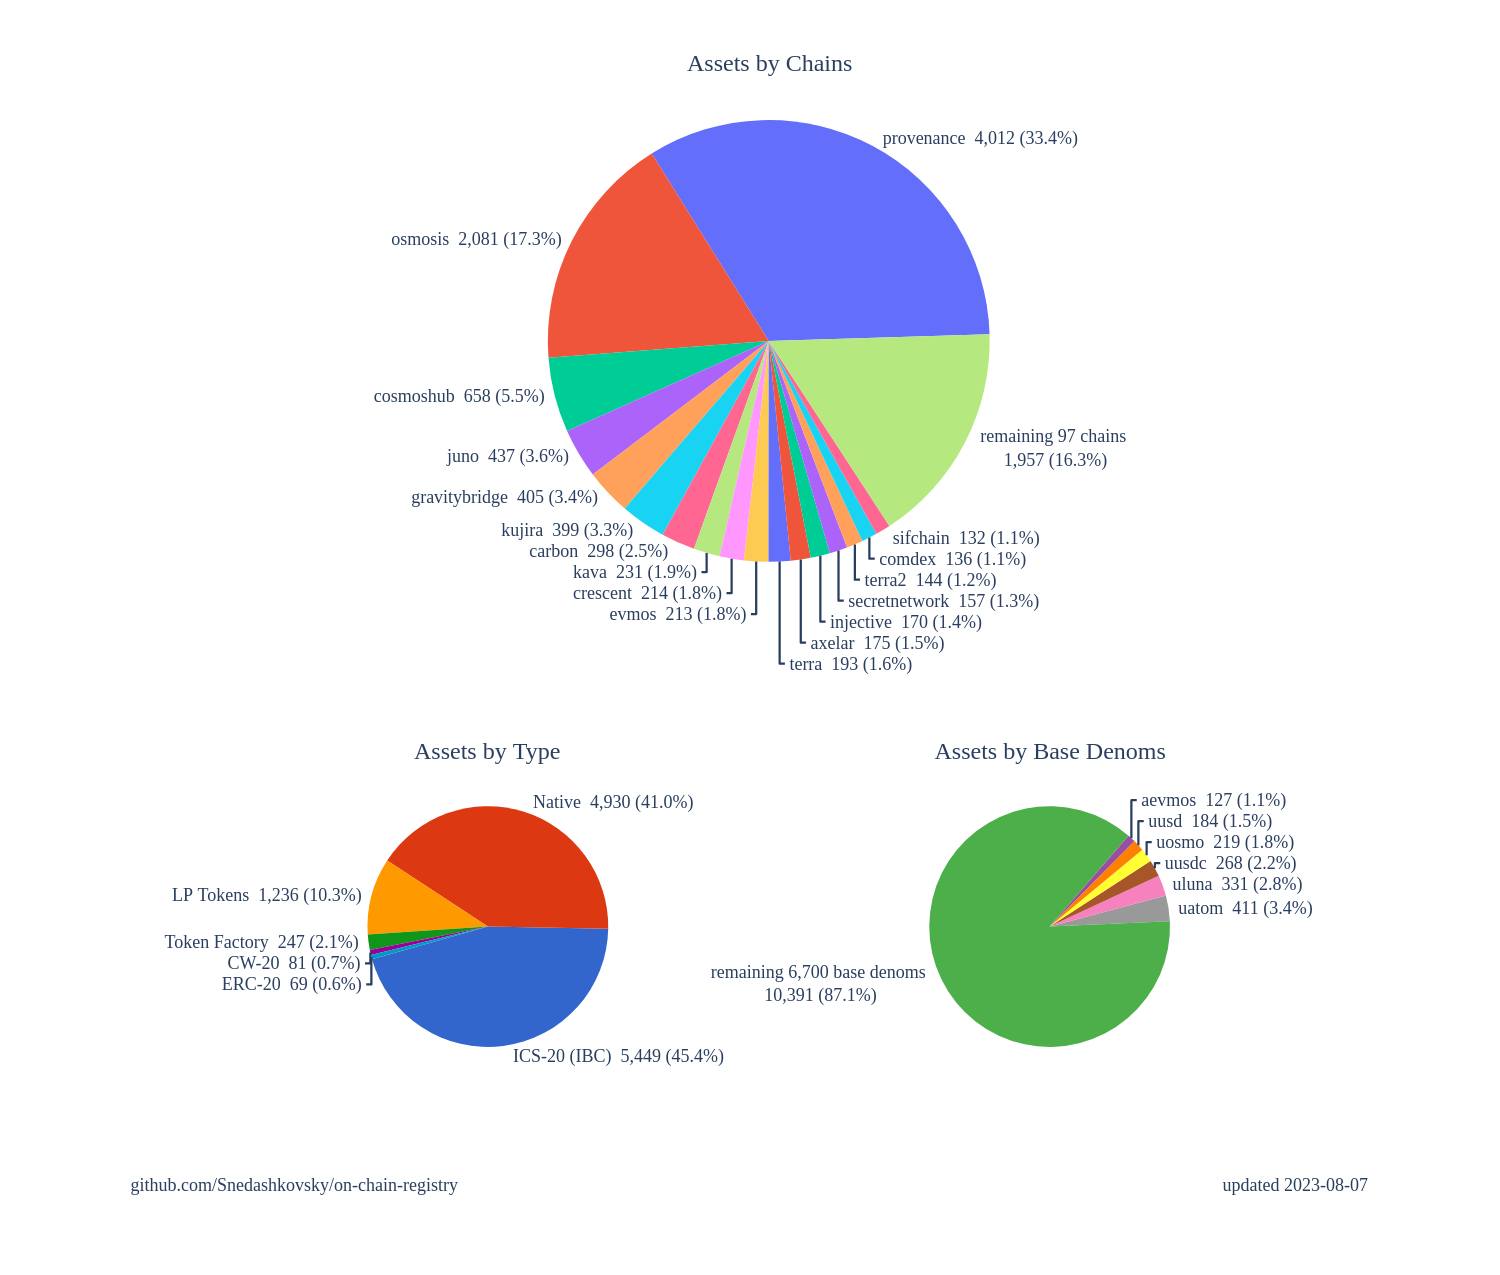
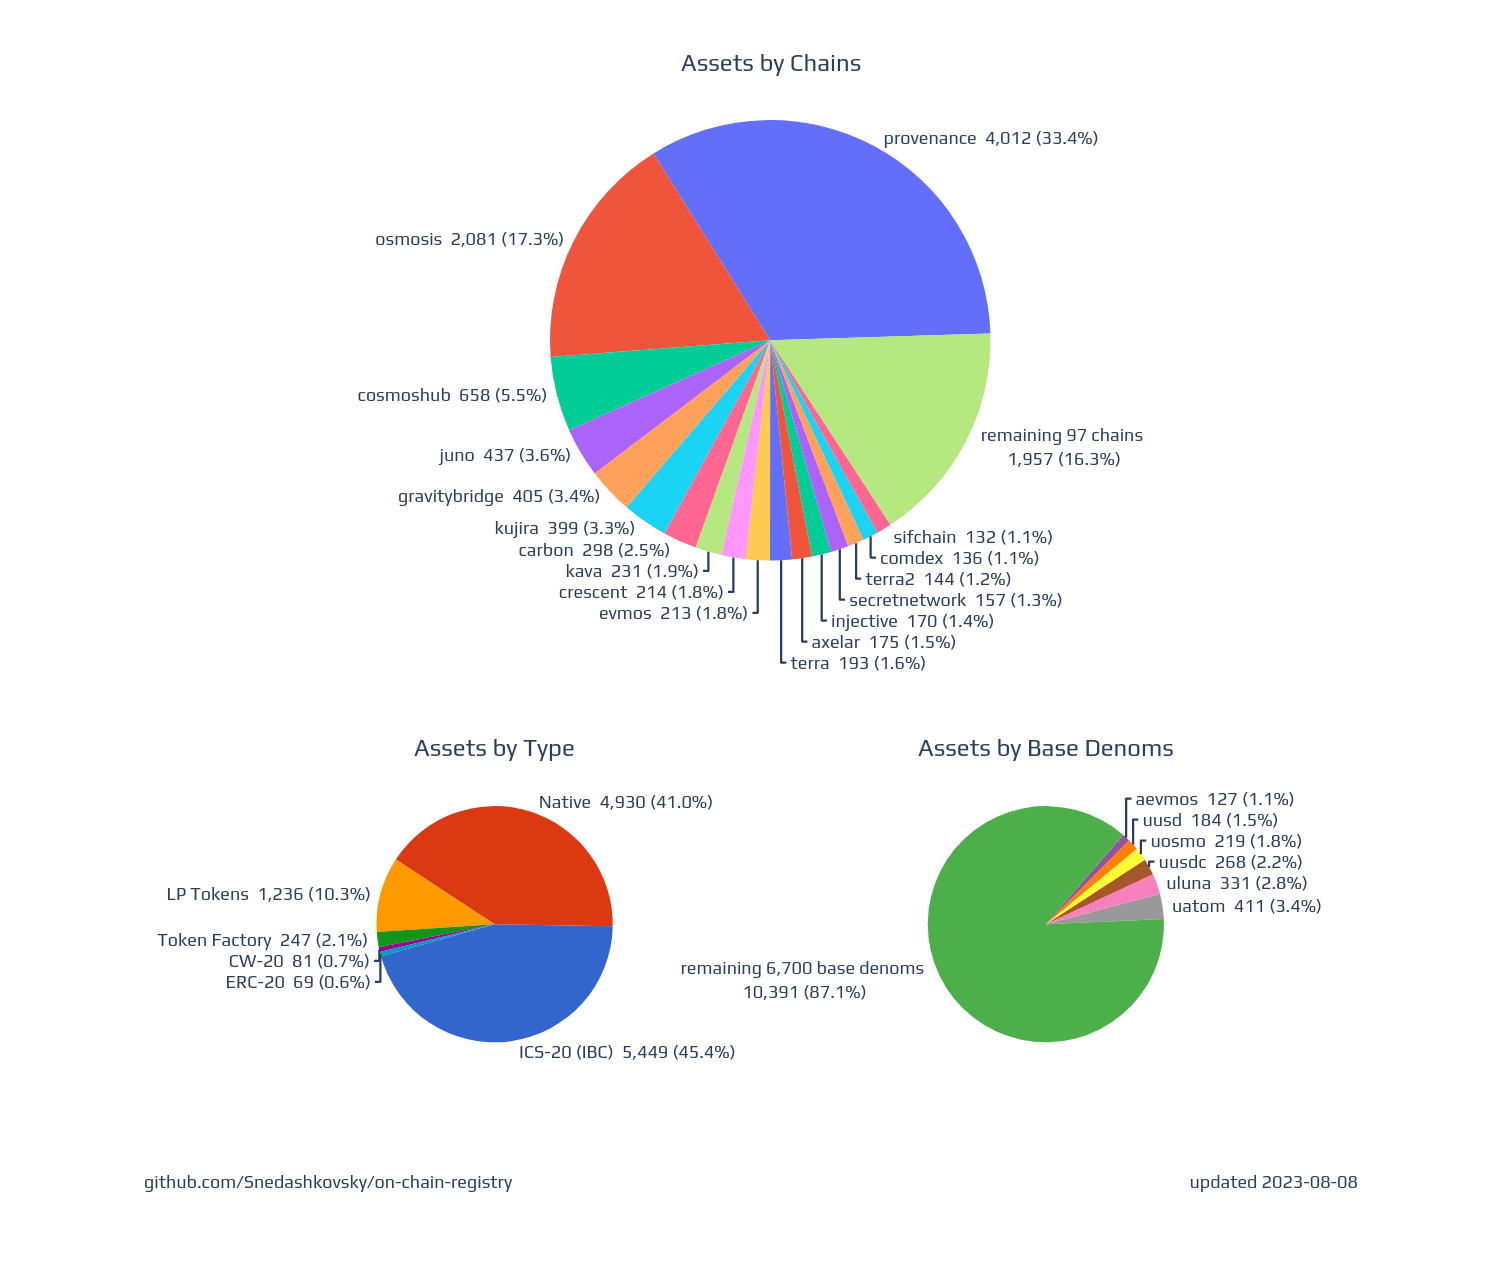
- update asset list

diff --git a/charts/index.html b/charts/index.html
@@ -1,0 +1,7 @@
+<html>
+<head><meta charset="utf-8" /></head>
+<body>
+    <div>                        <script type="text/javascript">window.PlotlyConfig = {MathJaxConfig: 'local'};</script>
+        <script charset="utf-8" src="https://cdn.plot.ly/plotly-2.24.1.min.js"></script>                <div id="06bafabd-e591-4732-a090-659733ec4720" class="plotly-graph-div" style="height:850px; width:1000px;"></div>            <script type="text/javascript">                                    window.PLOTLYENV=window.PLOTLYENV || {};                                    if (document.getElementById("06bafabd-e591-4732-a090-659733ec4720")) {                    Plotly.newPlot(                        "06bafabd-e591-4732-a090-659733ec4720",                        [{"labels":["provenance","osmosis","cosmoshub","juno","gravitybridge","kujira","carbon","kava","crescent","evmos","terra","axelar","injective","secretnetwork","terra2","comdex","sifchain","remaining 97 chains\n\u003cbr\u003e"],"marker":{"colors":["#636EFA","#EF553B","#00CC96","#AB63FA","#FFA15A","#19D3F3","#FF6692","#B6E880","#FF97FF","#FECB52"]},"name":"assets by chains","rotation":-32,"sort":false,"text":["4,012","2,081","658","437","405","399","298","231","214","213","193","175","170","157","144","136","132","1,957"],"values":[4012,2081,658,437,405,399,298,231,214,213,193,175,170,157,144,136,132,1957],"type":"pie","domain":{"x":[0.0,1.0],"y":[0.5700000000000001,1.0]},"hoverinfo":"label+value+percent","hovertemplate":"%{label}\u003cbr\u003e%{value:\u003e,} (%{percent:.1%})","textinfo":"label+value+percent","textposition":"outside","texttemplate":" %{label}  %{value:\u003e,} (%{percent:.1%}) "},{"labels":["ICS-20 (IBC)","Native","LP Tokens","Token Factory","CW-20","ERC-20"],"marker":{"colors":["#3366CC","#DC3912","#FF9900","#109618","#990099","#0099C6","#DD4477","#66AA00","#B82E2E","#316395"]},"name":"assets by type","rotation":91,"sort":false,"text":["5,449","4,930","1,236","247","81","69"],"values":[5449,4930,1236,247,81,69],"type":"pie","domain":{"x":[0.0,0.3],"y":[0.0,0.43]},"hoverinfo":"label+value+percent","hovertemplate":"%{label}\u003cbr\u003e%{value:\u003e,} (%{percent:.1%})","textinfo":"label+value+percent","textposition":"outside","texttemplate":" %{label}  %{value:\u003e,} (%{percent:.1%}) "},{"labels":["uatom","uluna","uusdc","uosmo","uusd","aevmos","remaining 6,700 base denoms\n\u003cbr\u003e"],"marker":{"colors":["rgb(153,153,153)","rgb(247,129,191)","rgb(166,86,40)","rgb(255,255,51)","rgb(255,127,0)","rgb(152,78,163)","rgb(77,175,74)","rgb(55,126,184)","rgb(228,26,28)"]},"name":"assets by base denoms","rotation":75,"sort":false,"text":["411","331","268","219","184","127","10,391"],"values":[411,331,268,219,184,127,10391],"type":"pie","domain":{"x":[0.7,1.0],"y":[0.0,0.43]},"hoverinfo":"label+value+percent","hovertemplate":"%{label}\u003cbr\u003e%{value:\u003e,} (%{percent:.1%})","textinfo":"label+value+percent","textposition":"outside","texttemplate":" %{label}  %{value:\u003e,} (%{percent:.1%}) "}],                        {"template":{"data":{"barpolar":[{"marker":{"line":{"color":"white","width":0.5},"pattern":{"fillmode":"overlay","size":10,"solidity":0.2}},"type":"barpolar"}],"bar":[{"error_x":{"color":"#2a3f5f"},"error_y":{"color":"#2a3f5f"},"marker":{"line":{"color":"white","width":0.5},"pattern":{"fillmode":"overlay","size":10,"solidity":0.2}},"type":"bar"}],"carpet":[{"aaxis":{"endlinecolor":"#2a3f5f","gridcolor":"#C8D4E3","linecolor":"#C8D4E3","minorgridcolor":"#C8D4E3","startlinecolor":"#2a3f5f"},"baxis":{"endlinecolor":"#2a3f5f","gridcolor":"#C8D4E3","linecolor":"#C8D4E3","minorgridcolor":"#C8D4E3","startlinecolor":"#2a3f5f"},"type":"carpet"}],"choropleth":[{"colorbar":{"outlinewidth":0,"ticks":""},"type":"choropleth"}],"contourcarpet":[{"colorbar":{"outlinewidth":0,"ticks":""},"type":"contourcarpet"}],"contour":[{"colorbar":{"outlinewidth":0,"ticks":""},"colorscale":[[0.0,"#0d0887"],[0.1111111111111111,"#46039f"],[0.2222222222222222,"#7201a8"],[0.3333333333333333,"#9c179e"],[0.4444444444444444,"#bd3786"],[0.5555555555555556,"#d8576b"],[0.6666666666666666,"#ed7953"],[0.7777777777777778,"#fb9f3a"],[0.8888888888888888,"#fdca26"],[1.0,"#f0f921"]],"type":"contour"}],"heatmapgl":[{"colorbar":{"outlinewidth":0,"ticks":""},"colorscale":[[0.0,"#0d0887"],[0.1111111111111111,"#46039f"],[0.2222222222222222,"#7201a8"],[0.3333333333333333,"#9c179e"],[0.4444444444444444,"#bd3786"],[0.5555555555555556,"#d8576b"],[0.6666666666666666,"#ed7953"],[0.7777777777777778,"#fb9f3a"],[0.8888888888888888,"#fdca26"],[1.0,"#f0f921"]],"type":"heatmapgl"}],"heatmap":[{"colorbar":{"outlinewidth":0,"ticks":""},"colorscale":[[0.0,"#0d0887"],[0.1111111111111111,"#46039f"],[0.2222222222222222,"#7201a8"],[0.3333333333333333,"#9c179e"],[0.4444444444444444,"#bd3786"],[0.5555555555555556,"#d8576b"],[0.6666666666666666,"#ed7953"],[0.7777777777777778,"#fb9f3a"],[0.8888888888888888,"#fdca26"],[1.0,"#f0f921"]],"type":"heatmap"}],"histogram2dcontour":[{"colorbar":{"outlinewidth":0,"ticks":""},"colorscale":[[0.0,"#0d0887"],[0.1111111111111111,"#46039f"],[0.2222222222222222,"#7201a8"],[0.3333333333333333,"#9c179e"],[0.4444444444444444,"#bd3786"],[0.5555555555555556,"#d8576b"],[0.6666666666666666,"#ed7953"],[0.7777777777777778,"#fb9f3a"],[0.8888888888888888,"#fdca26"],[1.0,"#f0f921"]],"type":"histogram2dcontour"}],"histogram2d":[{"colorbar":{"outlinewidth":0,"ticks":""},"colorscale":[[0.0,"#0d0887"],[0.1111111111111111,"#46039f"],[0.2222222222222222,"#7201a8"],[0.3333333333333333,"#9c179e"],[0.4444444444444444,"#bd3786"],[0.5555555555555556,"#d8576b"],[0.6666666666666666,"#ed7953"],[0.7777777777777778,"#fb9f3a"],[0.8888888888888888,"#fdca26"],[1.0,"#f0f921"]],"type":"histogram2d"}],"histogram":[{"marker":{"pattern":{"fillmode":"overlay","size":10,"solidity":0.2}},"type":"histogram"}],"mesh3d":[{"colorbar":{"outlinewidth":0,"ticks":""},"type":"mesh3d"}],"parcoords":[{"line":{"colorbar":{"outlinewidth":0,"ticks":""}},"type":"parcoords"}],"pie":[{"automargin":true,"type":"pie"}],"scatter3d":[{"line":{"colorbar":{"outlinewidth":0,"ticks":""}},"marker":{"colorbar":{"outlinewidth":0,"ticks":""}},"type":"scatter3d"}],"scattercarpet":[{"marker":{"colorbar":{"outlinewidth":0,"ticks":""}},"type":"scattercarpet"}],"scattergeo":[{"marker":{"colorbar":{"outlinewidth":0,"ticks":""}},"type":"scattergeo"}],"scattergl":[{"marker":{"colorbar":{"outlinewidth":0,"ticks":""}},"type":"scattergl"}],"scattermapbox":[{"marker":{"colorbar":{"outlinewidth":0,"ticks":""}},"type":"scattermapbox"}],"scatterpolargl":[{"marker":{"colorbar":{"outlinewidth":0,"ticks":""}},"type":"scatterpolargl"}],"scatterpolar":[{"marker":{"colorbar":{"outlinewidth":0,"ticks":""}},"type":"scatterpolar"}],"scatter":[{"fillpattern":{"fillmode":"overlay","size":10,"solidity":0.2},"type":"scatter"}],"scatterternary":[{"marker":{"colorbar":{"outlinewidth":0,"ticks":""}},"type":"scatterternary"}],"surface":[{"colorbar":{"outlinewidth":0,"ticks":""},"colorscale":[[0.0,"#0d0887"],[0.1111111111111111,"#46039f"],[0.2222222222222222,"#7201a8"],[0.3333333333333333,"#9c179e"],[0.4444444444444444,"#bd3786"],[0.5555555555555556,"#d8576b"],[0.6666666666666666,"#ed7953"],[0.7777777777777778,"#fb9f3a"],[0.8888888888888888,"#fdca26"],[1.0,"#f0f921"]],"type":"surface"}],"table":[{"cells":{"fill":{"color":"#EBF0F8"},"line":{"color":"white"}},"header":{"fill":{"color":"#C8D4E3"},"line":{"color":"white"}},"type":"table"}]},"layout":{"annotationdefaults":{"arrowcolor":"#2a3f5f","arrowhead":0,"arrowwidth":1},"autotypenumbers":"strict","coloraxis":{"colorbar":{"outlinewidth":0,"ticks":""}},"colorscale":{"diverging":[[0,"#8e0152"],[0.1,"#c51b7d"],[0.2,"#de77ae"],[0.3,"#f1b6da"],[0.4,"#fde0ef"],[0.5,"#f7f7f7"],[0.6,"#e6f5d0"],[0.7,"#b8e186"],[0.8,"#7fbc41"],[0.9,"#4d9221"],[1,"#276419"]],"sequential":[[0.0,"#0d0887"],[0.1111111111111111,"#46039f"],[0.2222222222222222,"#7201a8"],[0.3333333333333333,"#9c179e"],[0.4444444444444444,"#bd3786"],[0.5555555555555556,"#d8576b"],[0.6666666666666666,"#ed7953"],[0.7777777777777778,"#fb9f3a"],[0.8888888888888888,"#fdca26"],[1.0,"#f0f921"]],"sequentialminus":[[0.0,"#0d0887"],[0.1111111111111111,"#46039f"],[0.2222222222222222,"#7201a8"],[0.3333333333333333,"#9c179e"],[0.4444444444444444,"#bd3786"],[0.5555555555555556,"#d8576b"],[0.6666666666666666,"#ed7953"],[0.7777777777777778,"#fb9f3a"],[0.8888888888888888,"#fdca26"],[1.0,"#f0f921"]]},"colorway":["#636efa","#EF553B","#00cc96","#ab63fa","#FFA15A","#19d3f3","#FF6692","#B6E880","#FF97FF","#FECB52"],"font":{"color":"#2a3f5f"},"geo":{"bgcolor":"white","lakecolor":"white","landcolor":"white","showlakes":true,"showland":true,"subunitcolor":"#C8D4E3"},"hoverlabel":{"align":"left"},"hovermode":"closest","mapbox":{"style":"light"},"paper_bgcolor":"white","plot_bgcolor":"white","polar":{"angularaxis":{"gridcolor":"#EBF0F8","linecolor":"#EBF0F8","ticks":""},"bgcolor":"white","radialaxis":{"gridcolor":"#EBF0F8","linecolor":"#EBF0F8","ticks":""}},"scene":{"xaxis":{"backgroundcolor":"white","gridcolor":"#DFE8F3","gridwidth":2,"linecolor":"#EBF0F8","showbackground":true,"ticks":"","zerolinecolor":"#EBF0F8"},"yaxis":{"backgroundcolor":"white","gridcolor":"#DFE8F3","gridwidth":2,"linecolor":"#EBF0F8","showbackground":true,"ticks":"","zerolinecolor":"#EBF0F8"},"zaxis":{"backgroundcolor":"white","gridcolor":"#DFE8F3","gridwidth":2,"linecolor":"#EBF0F8","showbackground":true,"ticks":"","zerolinecolor":"#EBF0F8"}},"shapedefaults":{"line":{"color":"#2a3f5f"}},"ternary":{"aaxis":{"gridcolor":"#DFE8F3","linecolor":"#A2B1C6","ticks":""},"baxis":{"gridcolor":"#DFE8F3","linecolor":"#A2B1C6","ticks":""},"bgcolor":"white","caxis":{"gridcolor":"#DFE8F3","linecolor":"#A2B1C6","ticks":""}},"title":{"x":0.05},"xaxis":{"automargin":true,"gridcolor":"#EBF0F8","linecolor":"#EBF0F8","ticks":"","title":{"standoff":15},"zerolinecolor":"#EBF0F8","zerolinewidth":2},"yaxis":{"automargin":true,"gridcolor":"#EBF0F8","linecolor":"#EBF0F8","ticks":"","title":{"standoff":15},"zerolinecolor":"#EBF0F8","zerolinewidth":2}}},"annotations":[{"font":{"size":16},"showarrow":false,"text":"Assets by Chains","x":0.5,"xanchor":"center","xref":"paper","y":1.04,"yanchor":"bottom","yref":"paper"},{"font":{"size":16},"showarrow":false,"text":"Assets by Type","x":0.15,"xanchor":"center","xref":"paper","y":0.37,"yanchor":"bottom","yref":"paper"},{"font":{"size":16},"showarrow":false,"text":"Assets by Base Denoms","x":0.85,"xanchor":"center","xref":"paper","y":0.37,"yanchor":"bottom","yref":"paper"},{"showarrow":false,"text":"github.com\u002fSnedashkovsky\u002fon-chain-registry","x":-0.3,"y":-0.05},{"showarrow":false,"text":"updated 2023-08-08","x":1.25,"y":-0.05}],"font":{"family":"Play"},"title":{"text":"","x":0.5},"margin":{"l":0,"r":0,"t":80,"b":0},"height":850,"width":1000,"showlegend":false,"autosize":false},                        {"responsive": true}                    )                };                            </script>        </div>
+</body>
+</html>
